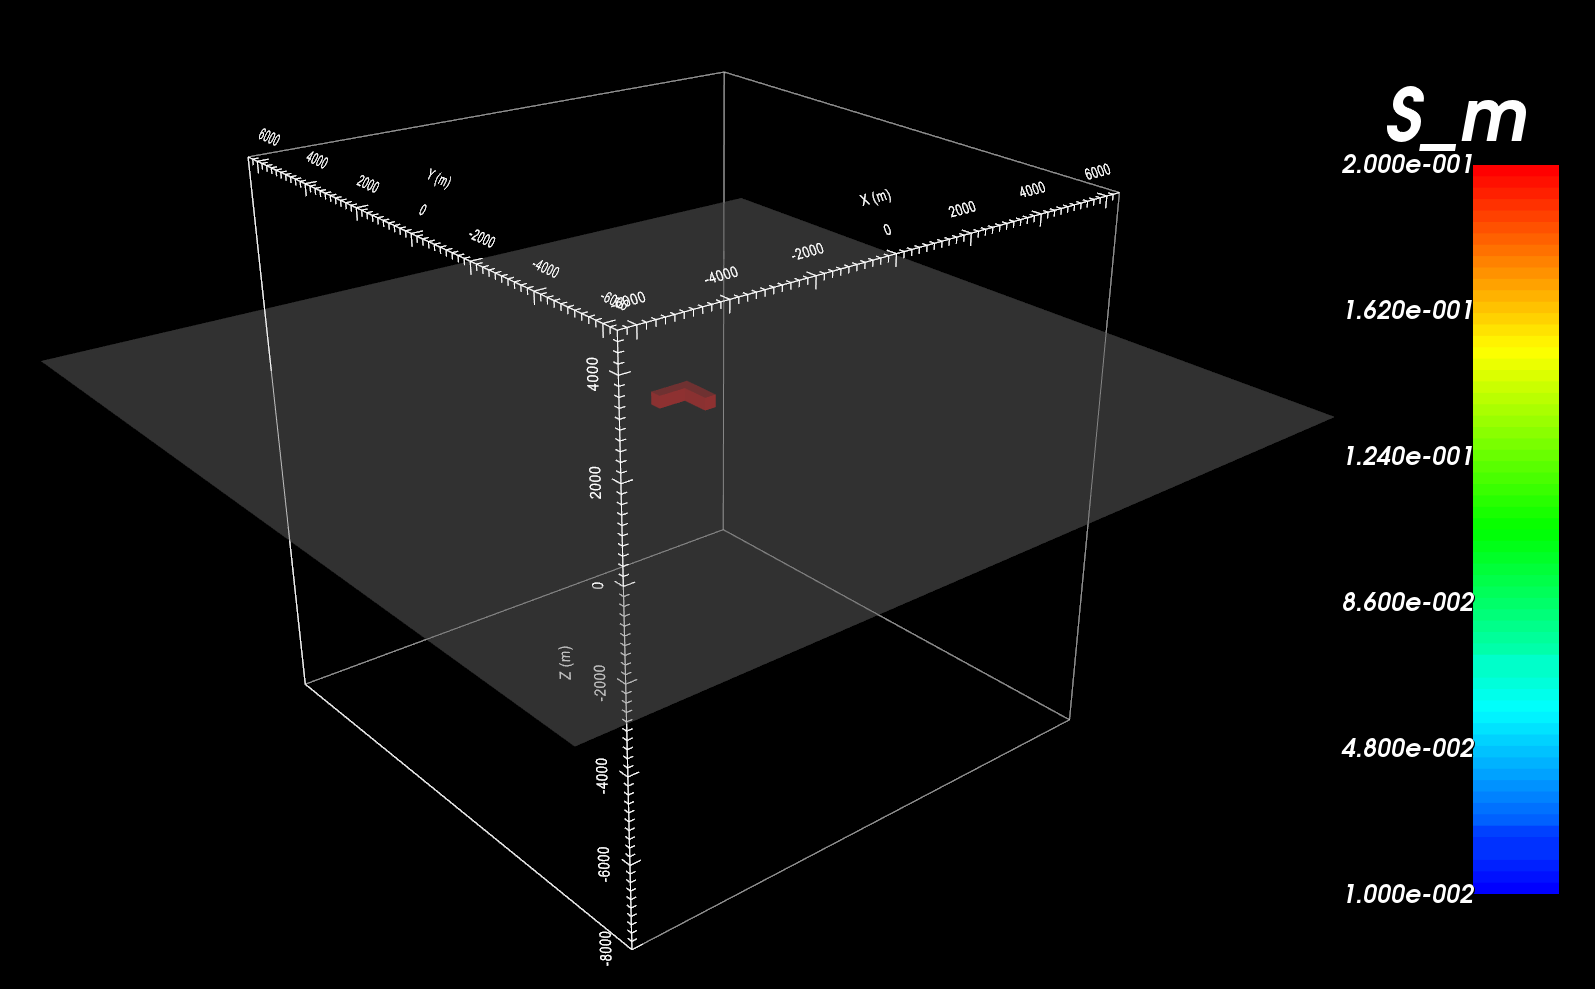
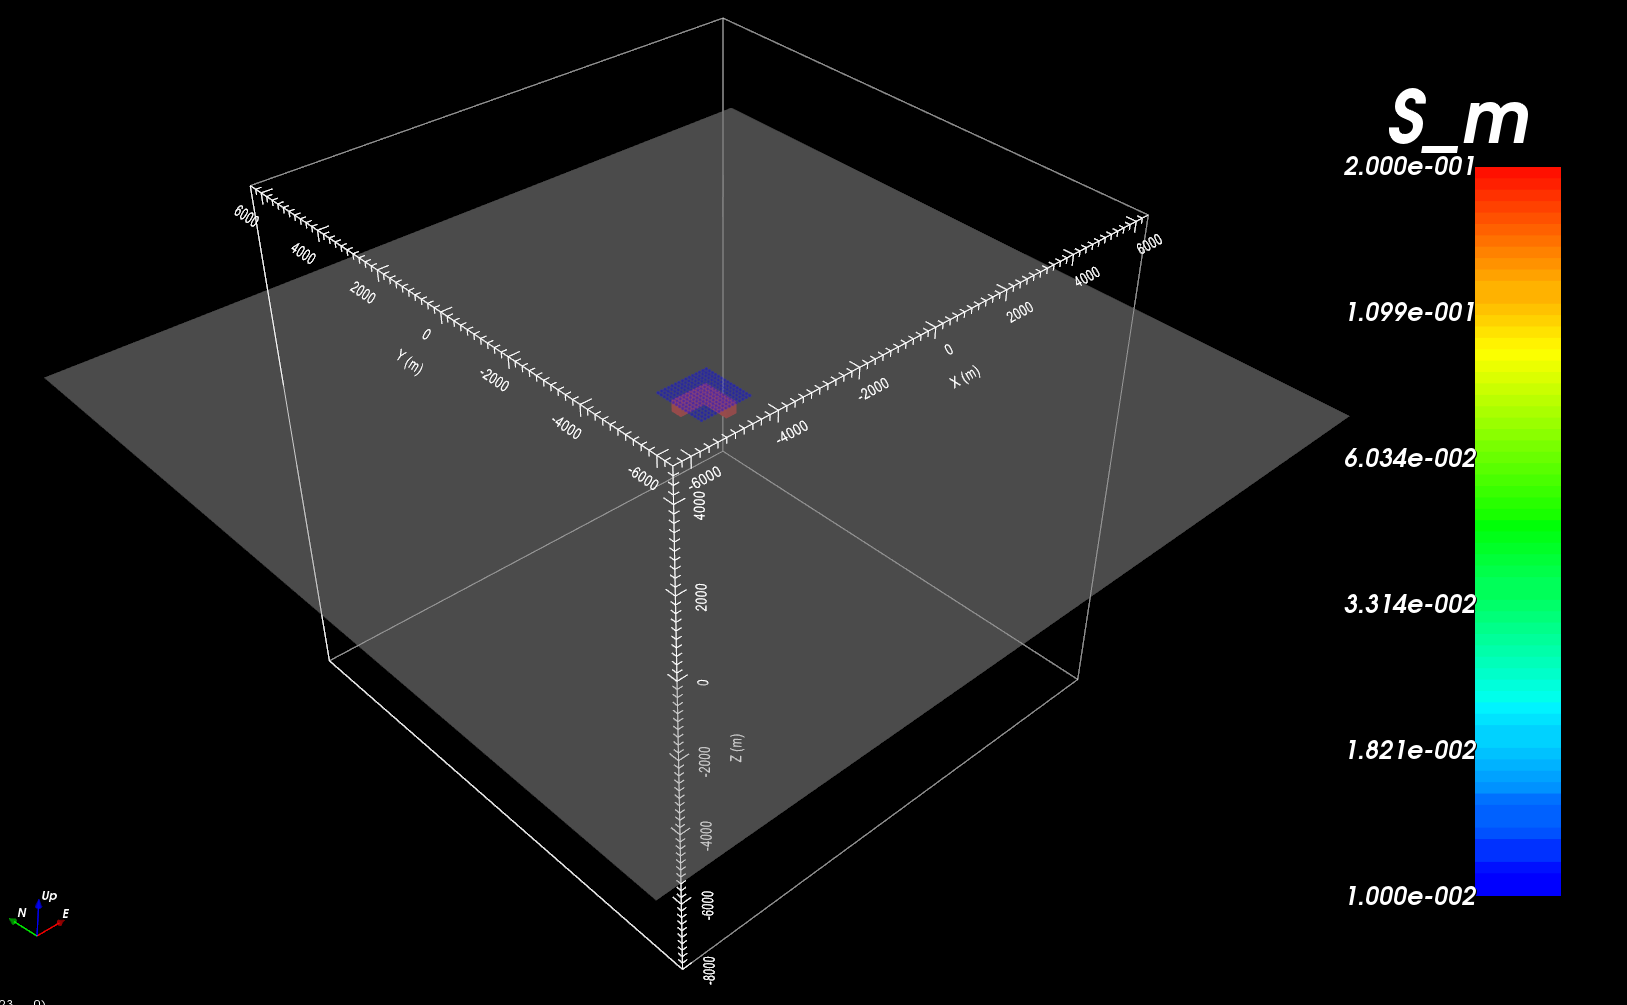
Update model

diff --git a/content/example/create_model.rst b/content/example/create_model.rst
@@ -28,7 +28,7 @@ Here is the input file for **3DModel2Octree.exe**
 
 
 
-The resulting Octree model shows a conductive block (:math:`\sigma` = 0.2 S/m) within a more resistive background (:math:`\sigma_b` = 0.01 S/m).
+The resulting Octree model shows a conductive block (:math:`\sigma` = 0.2 S/m) within a more resistive background (:math:`\sigma_b` = 0.01 S/m). A constant topography of 0 m in elevation is shown in gray. The observation locations are shown in blue.
 
 
 .. figure:: images/octree_model1.png
